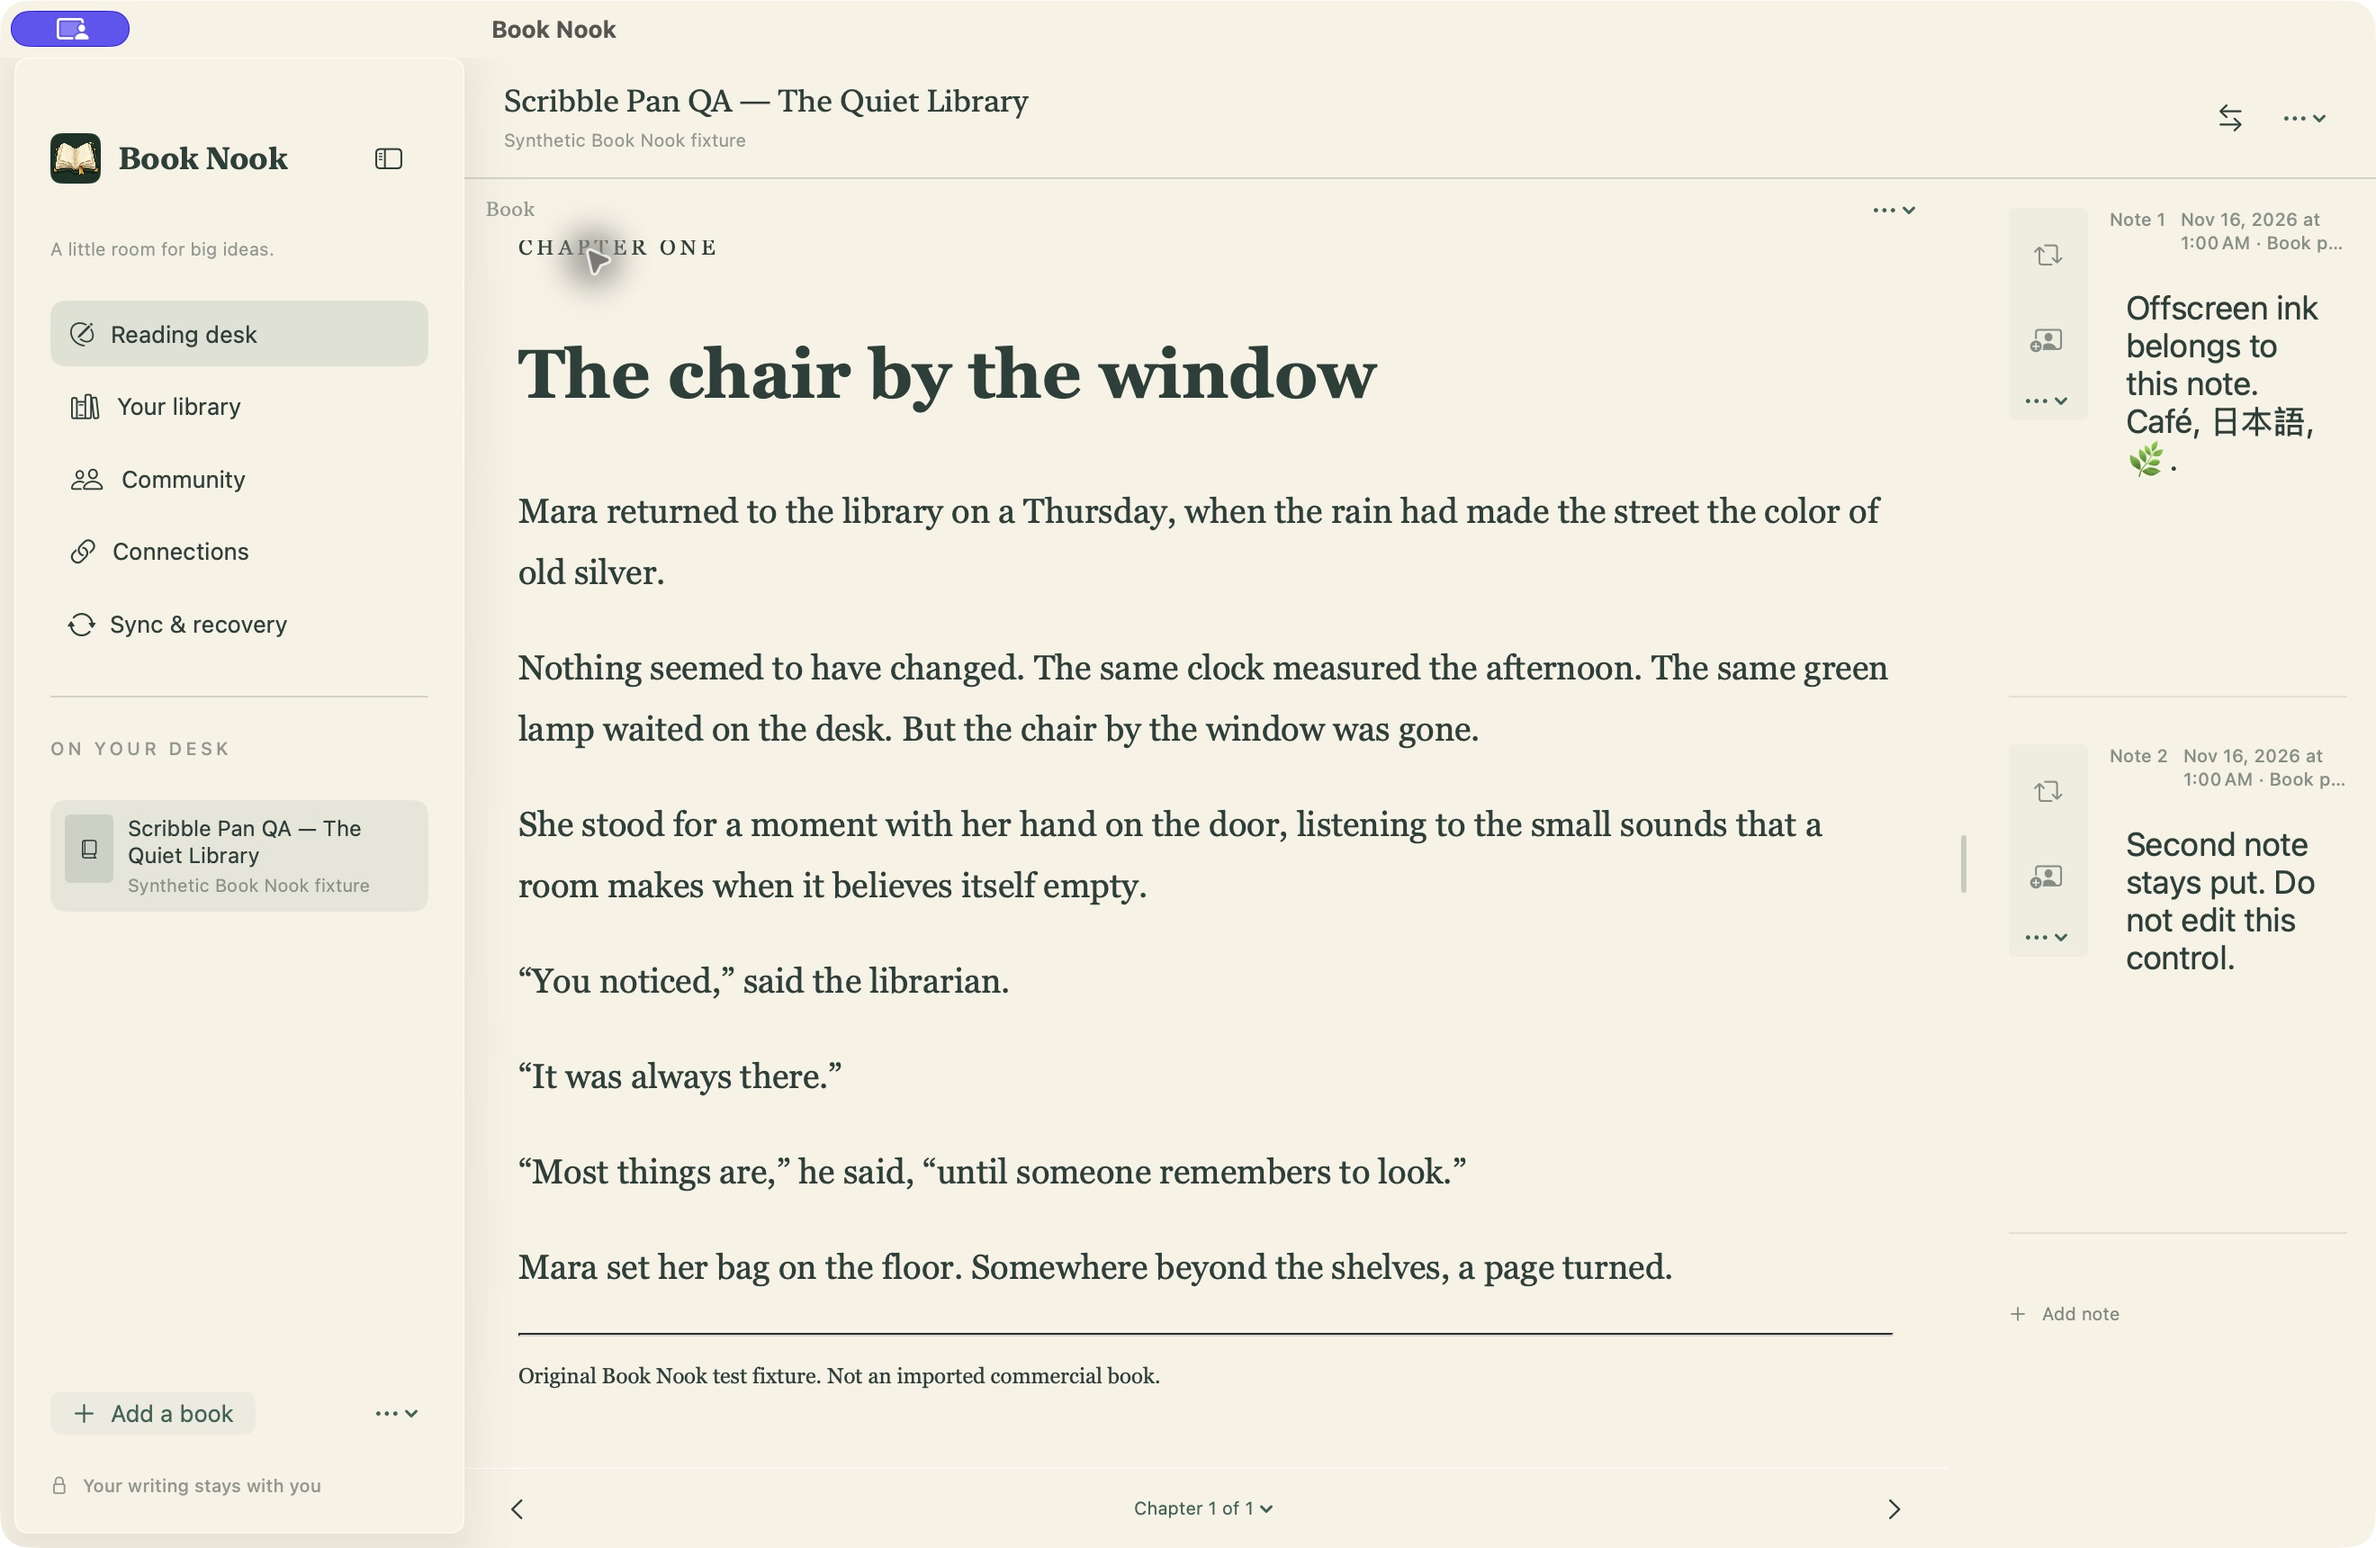
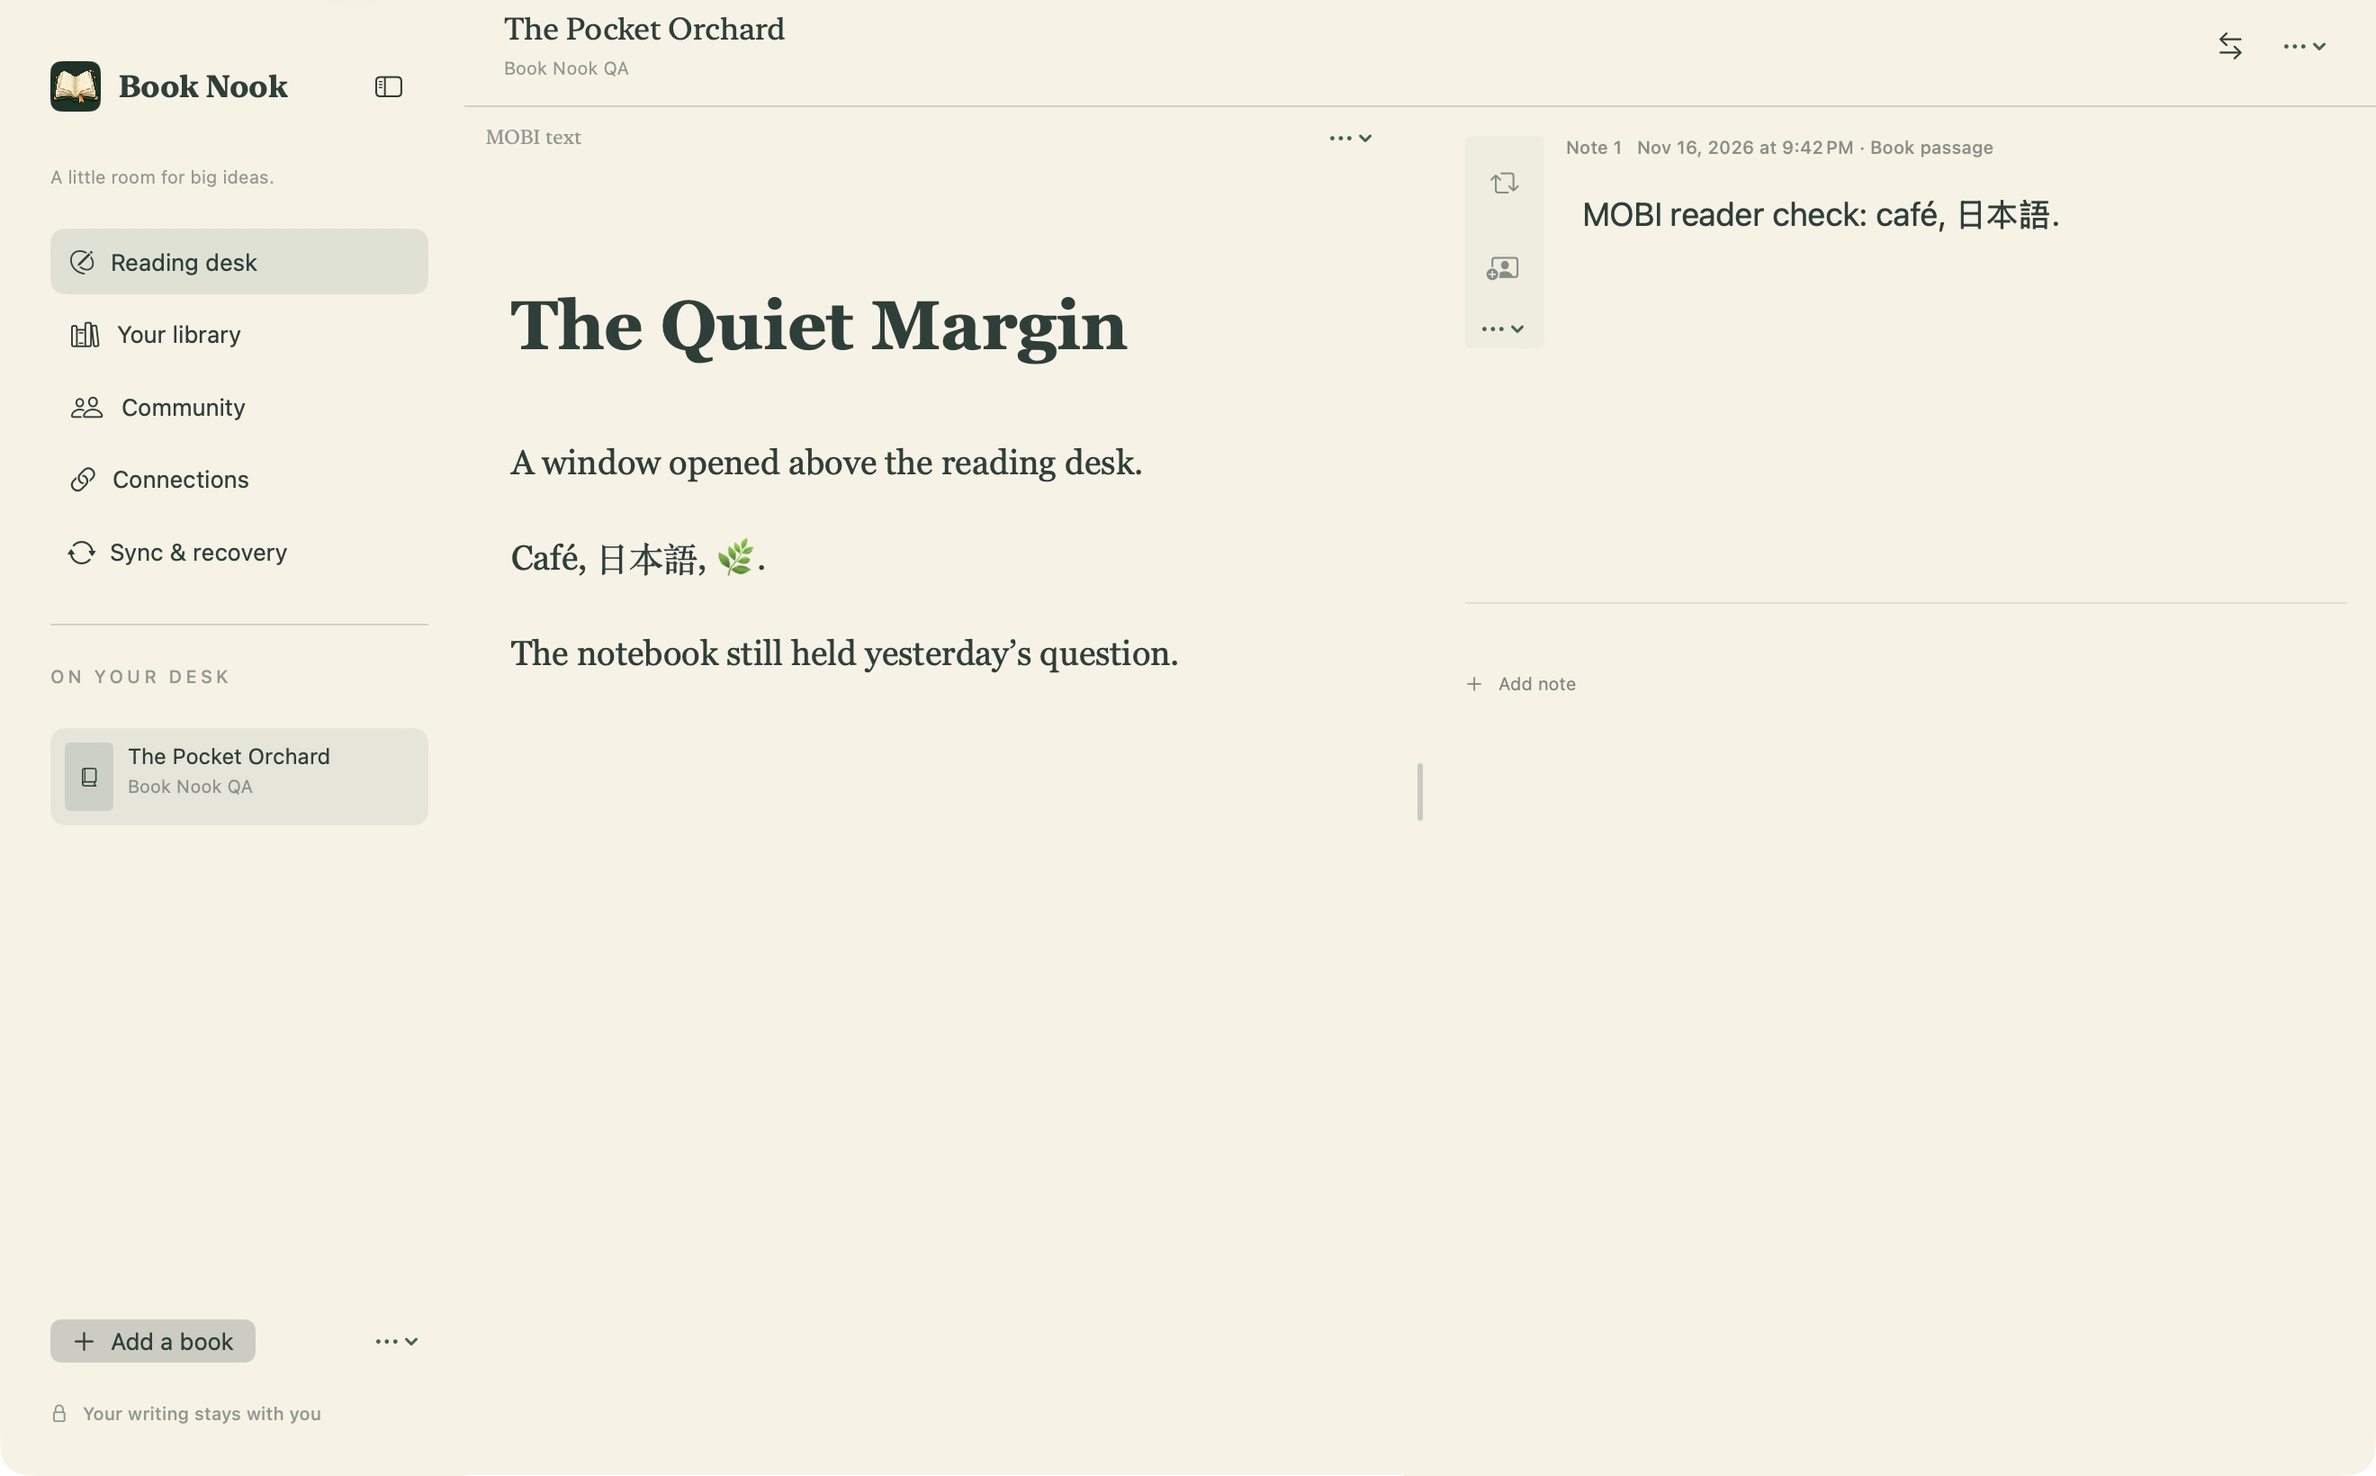
Refresh README captures from Book Nook 1607

diff --git a/README.md b/README.md
@@ -24,17 +24,17 @@ Bounded Mac checks on build **1404** passed ASCII typing plus native Unicode pas
 
 The [profile-file repair](docs/profile-import-file-evidence.json) originated at `995bf0df36f3a638fd185f704c19f41af4269cd6`: nonblocking open and validation of the opened regular-file descriptor reject blocking special files. Its old FIFO timeout, 14 fixed cases, native workflow and iPad typechecks remain separate source-bound evidence. The new build includes the fix; the immutable a945 app archives do not. SDK/signing contracts, wire/saved data and ontology are unchanged.
 
-The normal iPad app was [updated in place to 0.2.1 (2026111601)](docs/ipad-2026111601-install-evidence.json) on the connected iPad. The existing local database was unchanged before launch, and no orientation commands were sent. [Normal launch passed](docs/ipad-2026111601-launch-evidence.json) after Apple developer-profile trust was confirmed. The existing empty library remained unchanged; hands-on iPad checks are still open.
+The earlier iPad acceptance check [updated the normal app in place to 0.2.1 (2026111601)](docs/ipad-2026111601-install-evidence.json) on the connected iPad. The existing local database was unchanged before launch, and no orientation commands were sent. [Normal launch passed](docs/ipad-2026111601-launch-evidence.json) after Apple developer-profile trust was confirmed. The existing empty library remained unchanged; hands-on iPad checks are still open.
 
 **macOS — reading desk**
 
-![Book Nook macOS reading desk with two separate Margin notes alongside an EPUB on warm paper](docs/screenshots/macos-current.jpg)
+![Book Nook macOS reading desk with a legacy MOBI book and its Margin note on warm paper](docs/screenshots/macos-current.jpg)
 
 **iPad — reading desk**
 
-![Book Nook iPad Release app in portrait, with two text notes in the Margin alongside the book](docs/screenshots/ipad-current.png)
+![Book Nook iPad reading desk in portrait, with three text notes alongside an EPUB](docs/screenshots/ipad-current.png)
 
-These captures show the locally verified native Release build **0.2.1 (2026111603)** with an original sample EPUB and two notes. The iPad image was captured on an iPad Air 13-inch Simulator running iPadOS 18.6. [Capture details](docs/screenshots/README.md).
+Both captures show native Release build **0.2.1 (2026111607)**. The Mac uses a synthetic MOBI and the iPad Air 13-inch Simulator uses a synthetic EPUB. [Capture details](docs/screenshots/README.md).
 
 ## Run the native apps
 

diff --git a/docs/screenshots/README.md b/docs/screenshots/README.md
@@ -1,12 +1,12 @@
 # Native app screenshots
 
-The main README uses captures from the locally verified native **0.2.1 Release build 2026111603**, made on November 16, 2026 in America/Vancouver.
+Both captures use the verified Book Nook **0.2.1 Release build 2026111607** from the published native archives.
 
-| Screenshot | App target | Capture environment |
+| Screenshot | Workspace | Capture environment |
 |---|---|---|
-| [macOS reading desk](macos-current.jpg) | `BookNookMac` / `org.booknook.desktop` | Native app window on macOS 26.4.1 |
-| [iPad reading desk](ipad-current.png) | `BookNookPad` / `org.booknook.ipad` | iPad Air 13-inch (M2), iPadOS 18.6 Simulator, portrait |
+| [macOS reading desk](macos-current.jpg) | A legacy MOBI passage and its Margin note | Native app window on macOS 26.4.1 |
+| [iPad reading desk](ipad-current.png) | The original synthetic EPUB *The Quiet Library* and three Margin notes | iPad Air 13-inch (M2), iPadOS 18.6 Simulator, portrait |
 
-Both images show the original synthetic EPUB *The Quiet Library* and two notes in the Margin. The Mac app uses a separate QA library. The dedicated iPad Simulator uses a verified copy of that synthetic desk. The Mac JPEG is the original window capture and the iPad PNG is the original `simctl io screenshot` framebuffer.
+Both desks use synthetic data. The Mac image is an actual window capture with an 80-pixel crop of the operating-system title strip. The iPad image preserves the original Simulator framebuffer, including a synthetic note from the earlier recovery test.
 
-[Capture metadata](current.json) records the exact executables, source revisions and image hashes. The [latest delivery evidence](../app-2026111607-public-preview-evidence.json) records the native development preview and the separately signed physical iPad installation at build 2026111607. The screenshots above retain their original build identities. Physical input and live integration checks remain open.
+[Capture metadata](current.json) identifies the exact executables, source revision, and image hashes. The [delivery evidence](../app-2026111607-public-preview-evidence.json) records the independently verified installation of build 2026111607 on the physical iPad.
